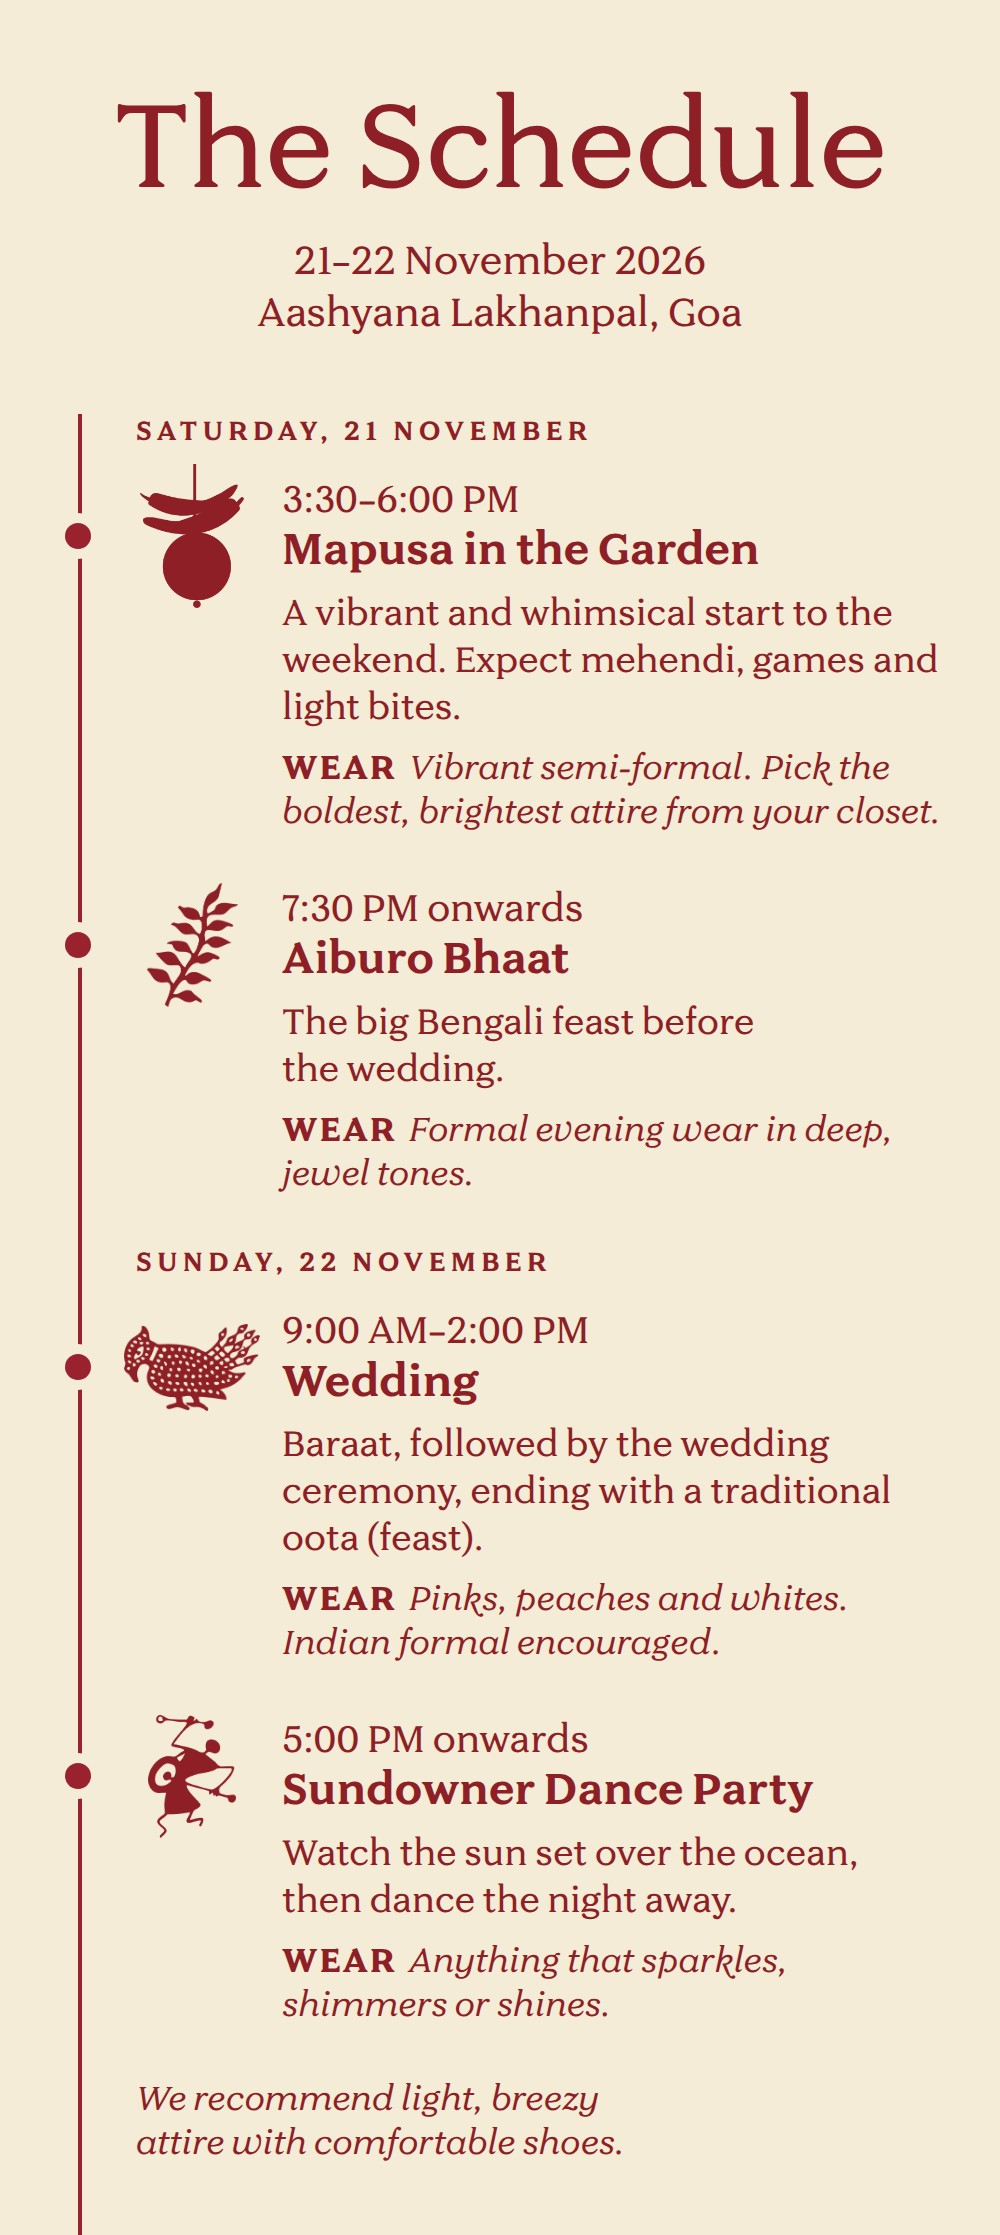
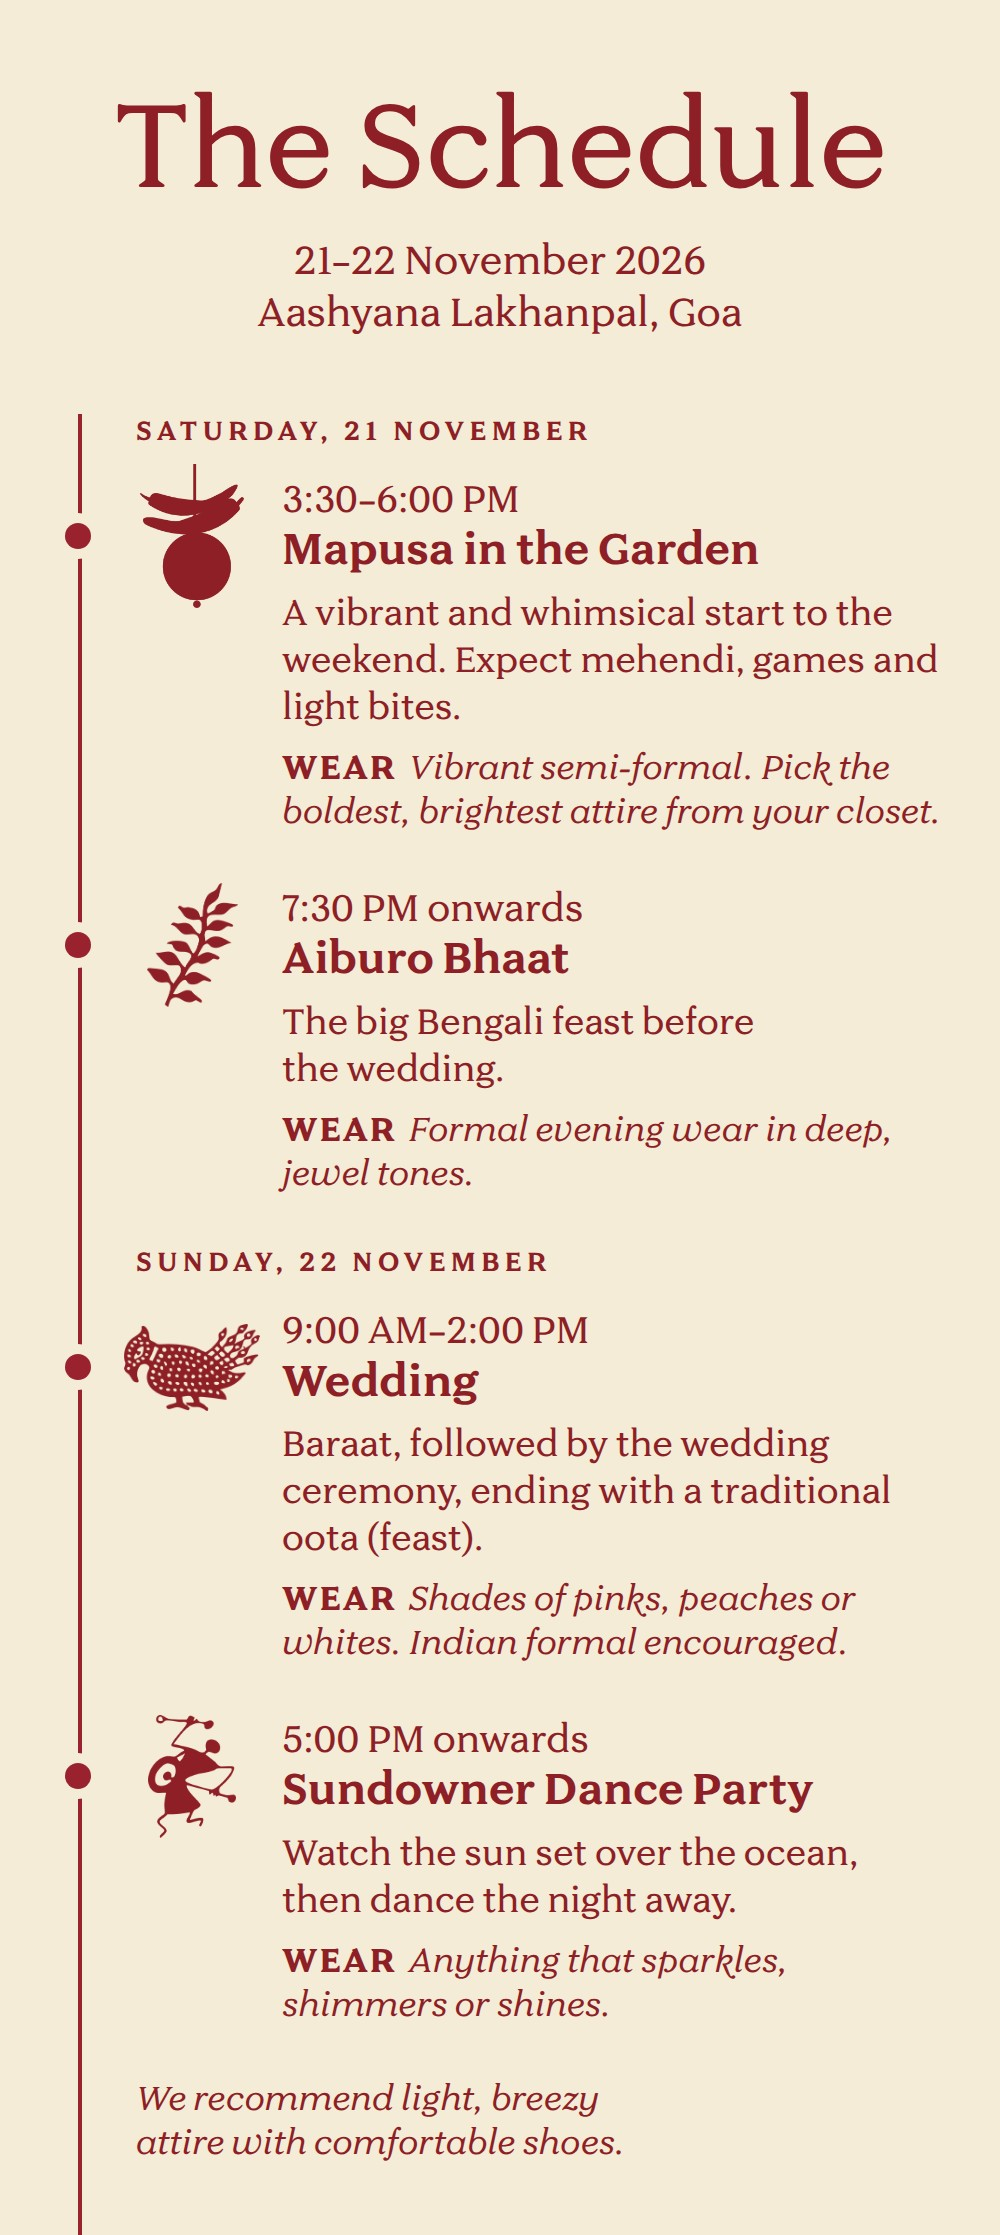
Ask for shades of pinks, peaches or whites at the wedding
The wedding dress code changes from "Pinks, peaches and whites" to
"Shades of pinks, peaches or whites" on the schedule page, the
invitation's wedding dress code and its schedule card label, both
schedule cards (re-rendered), and the FAQ's dress code answer. Each
keeps its own comma style: the schedule page uses the serial comma,
the invitation and cards do not.

Claude-Session: https://claude.ai/code/session_015nVibWDUthAChW866LzLGR

Changed region(s): [[0.279, 0.7101, 0.837, 0.7409]]

diff --git a/invite.html b/invite.html
@@ -113,7 +113,7 @@
         <div class="invite-wear-row">
           <div class="invite-wear-block">
             <p class="invite-wear-label">Dress Code</p>
-            <p class="invite-wear">Pinks, peaches and whites. Indian formal encouraged.</p>
+            <p class="invite-wear">Shades of pinks, peaches or whites. Indian formal encouraged.</p>
           </div>
           <div class="invite-swatches" aria-hidden="true">
             <span class="invite-swatch" style="background:#d98f9a"></span>
@@ -214,7 +214,7 @@
 
     <!-- Schedule at a glance -->
     <div class="invite-glance" hidden>
-      <div class="invite-glance-card" role="img" aria-label="The schedule, 21 to 22 November 2026, Aashyana Lakhanpal, Goa. Saturday 21 November: Mapusa in the Garden, 3:30 to 6:00 PM. A vibrant and whimsical start to the weekend. Expect mehendi, games and light bites. Wear vibrant semi-formal; pick the boldest, brightest attire from your closet. Aiburo Bhaat, 7:30 PM onwards. The big Bengali feast before the wedding. Wear formal evening wear in deep, jewel tones. Sunday 22 November: Wedding, 9:00 AM to 2:00 PM. Baraat, followed by the wedding ceremony, ending with a traditional oota (feast). Wear pinks, peaches and whites; Indian formal encouraged. Sundowner Dance Party, 5:00 PM onwards. Watch the sun set over the ocean, then dance the night away. Wear anything that sparkles, shimmers or shines. We recommend light, breezy attire with comfortable shoes."></div>
+      <div class="invite-glance-card" role="img" aria-label="The schedule, 21 to 22 November 2026, Aashyana Lakhanpal, Goa. Saturday 21 November: Mapusa in the Garden, 3:30 to 6:00 PM. A vibrant and whimsical start to the weekend. Expect mehendi, games and light bites. Wear vibrant semi-formal; pick the boldest, brightest attire from your closet. Aiburo Bhaat, 7:30 PM onwards. The big Bengali feast before the wedding. Wear formal evening wear in deep, jewel tones. Sunday 22 November: Wedding, 9:00 AM to 2:00 PM. Baraat, followed by the wedding ceremony, ending with a traditional oota (feast). Wear shades of pinks, peaches or whites; Indian formal encouraged. Sundowner Dance Party, 5:00 PM onwards. Watch the sun set over the ocean, then dance the night away. Wear anything that sparkles, shimmers or shines. We recommend light, breezy attire with comfortable shoes."></div>
       <div class="invite-glance-foot">
         <a class="invite-glance-download" href="assets/invite/schedule.jpg" download="Jayant-and-Anjali-Schedule.jpg">
           <svg viewBox="0 0 16 16" aria-hidden="true"><path d="M8 2v8M4.5 6.8 8 10.3l3.5-3.5M3 13.5h10" fill="none" stroke="currentColor" stroke-width="1.6" stroke-linecap="round" stroke-linejoin="round"/></svg>

diff --git a/faqs.html b/faqs.html
@@ -122,7 +122,7 @@
         <details class="faq-item fade-in" style="transition-delay:0.28s;">
           <summary>What's the dress code?</summary>
           <p class="faq-answer">
-            Each event has its own dress code, and they're all listed on the <a href="schedule.html" class="link">Schedule</a> page &mdash; vibrant semi-formal for Mapusa in the Garden, jewel tones for the Aiburo Bhaat, pinks and peaches and whites for the wedding, and anything that sparkles for the sundowner.
+            Each event has its own dress code, and they're all listed on the <a href="schedule.html" class="link">Schedule</a> page &mdash; vibrant semi-formal for Mapusa in the Garden, jewel tones for the Aiburo Bhaat, shades of pinks or peaches or whites for the wedding, and anything that sparkles for the sundowner.
           </p>
           <p class="faq-answer">
             That's everything you need to shop or pack. If you'd like a steer on a particular event, or want to check something you've already got, send us a photo and we'll tell you.

diff --git a/design/schedule-card/v3b.html b/design/schedule-card/v3b.html
@@ -157,7 +157,7 @@
         <p class="time">9:00 AM&ndash;2:00 PM</p>
         <h2 class="name">Wedding</h2>
         <p class="desc">Baraat, followed by the wedding ceremony, ending with a traditional oota (feast).</p>
-        <p class="wear"><span class="wear-label">Wear</span>Pinks, peaches and whites. Indian formal encouraged.</p>
+        <p class="wear"><span class="wear-label">Wear</span>Shades of pinks, peaches or whites. Indian formal encouraged.</p>
       </div>
       <div class="event">
         <div class="marker">

diff --git a/design/schedule-card/portrait.html b/design/schedule-card/portrait.html
@@ -138,7 +138,7 @@
           <p class="time">9:00 AM&ndash;2:00 PM</p>
           <h2 class="name">Wedding</h2>
           <p class="desc">Baraat, followed by the wedding ceremony, ending with a traditional oota (feast).</p>
-          <p class="wear"><span class="wear-label">Wear</span>Pinks, peaches and whites. Indian formal encouraged.</p>
+          <p class="wear"><span class="wear-label">Wear</span>Shades of pinks, peaches or whites. Indian formal encouraged.</p>
         </div>
       </div>
       <div class="event">

diff --git a/schedule.html b/schedule.html
@@ -107,7 +107,7 @@
               <p class="glance-desc">Baraat, followed by the wedding ceremony, ending with a traditional oota (feast).</p>
               <p class="glance-dress">
                 <span class="glance-dress-label">Dress code</span>
-                <span class="glance-dress-text">Pinks, peaches, and whites. Indian formal encouraged.</span>
+                <span class="glance-dress-text">Shades of pinks, peaches, or whites. Indian formal encouraged.</span>
               </p>
             </div>
 
